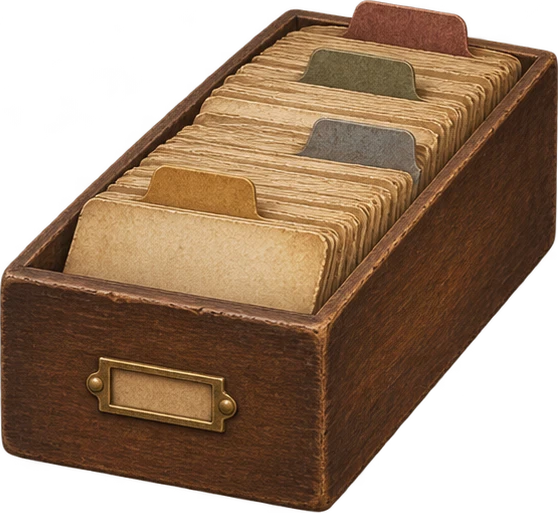
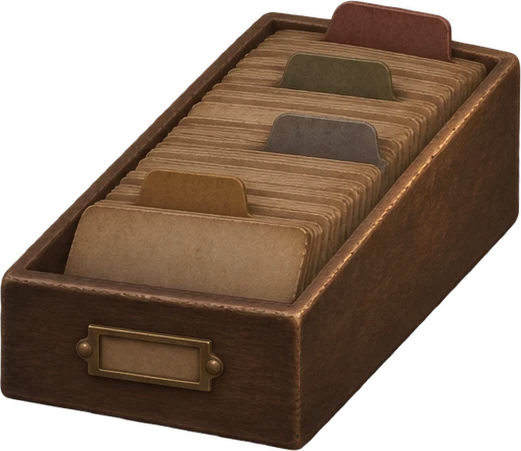
分岐表のカード箱の絵を差し替え（机 v1.9.1）
Claude-Session: https://claude.ai/code/session_01V6rLNkZVMeFGwMy4Z8QBFt

diff --git a/tools/nakoto-sample.html b/tools/nakoto-sample.html
@@ -5,7 +5,7 @@
 <meta name="viewport" content="width=device-width, initial-scale=1.0, maximum-scale=1.0, user-scalable=no, viewport-fit=cover">
 <meta name="mobile-web-app-capable" content="yes">
 <meta name="apple-mobile-web-app-capable" content="yes">
-<title>ナコト写本 見本 v1.11.0</title>
+<title>ナコト写本 見本 v1.11.1</title>
 <link rel="stylesheet" href="https://fonts.googleapis.com/css2?family=Cinzel:wght@700&family=Shippori+Mincho:wght@400;600;700&display=swap">
 <style>
   /* 机メニュー＋ナコト写本だけを試す見本。ゲーム本体には影響しない */
@@ -44,7 +44,7 @@
 </style>
 </head>
 <body>
-<div id="start"><b>タップして始める</b><span>全画面・横向きになります</span><span>ナコト写本 見本 v1.11.0</span></div>
+<div id="start"><b>タップして始める</b><span>全画面・横向きになります</span><span>ナコト写本 見本 v1.11.1</span></div>
 <div id="portrait">横向きにしてください</div>
 <div id="dbg"><button id="adv">物語を進める</button><button id="rst">最初から</button><button id="demo">見本で埋める</button><button id="adjBtn">調整</button></div>
 <button id="adjShow">調整に戻る</button>
@@ -66,10 +66,10 @@
     <div class="row"><button id="sndReset">効果音を元に戻す</button></div></div>
 </div>
 
-<script src="../assets/manifest.js?v=1.11.0"></script>
-<script src="../assets/picker/asset-picker.js?v=1.11.0"></script>
-<script src="../assets/sheet/investigator-sheet.js?v=1.11.0"></script>
-<script src="../assets/nakoto/nakoto-desk.js?v=1.11.0"></script>
+<script src="../assets/manifest.js?v=1.11.1"></script>
+<script src="../assets/picker/asset-picker.js?v=1.11.1"></script>
+<script src="../assets/sheet/investigator-sheet.js?v=1.11.1"></script>
+<script src="../assets/nakoto/nakoto-desk.js?v=1.11.1"></script>
 <script>
 (function(){
   'use strict';
@@ -120,7 +120,7 @@
   var desk=NakotoDesk.create({
     base:'../assets/nakoto/', assets:'../assets/', chart:chart, state:data.state, layout:data.layout, sounds:data.sounds,
     onLayout:function(l){ data.layout=l; save(data); },
-    onSounds:function(m){ data.sounds=m; save(data); }, version:'見本 v1.11.0',
+    onSounds:function(m){ data.sounds=m; save(data); }, version:'見本 v1.11.1',
     current: data.step>0?path[data.step-1][1]:null,
     onState:function(s){ data.state=s; save(data); },
     onLoad:function(slot,sv){ alertish('セーブ'+['壱','弐','参'][slot]+'から再開（見本なので表示だけ）'); },

diff --git a/assets/nakoto/nakoto-desk.js b/assets/nakoto/nakoto-desk.js
@@ -1,5 +1,5 @@
 /* ============================================================================
-   机メニュー＋ナコト写本 部品（NakotoDesk） v1.9.0
+   机メニュー＋ナコト写本 部品（NakotoDesk） v1.9.1
    ----------------------------------------------------------------------------
    机そのものがメニュー。本＝探索者シート（部品 assets/sheet/investigator-sheet.js）、紙の束＝ルート分岐表（付箋付きファイル）、羽ペン＝セーブ。
    本体は呼ぶだけ。見た目を作り直すときは、このファイルと assets/nakoto/ の絵だけを差しかえる。
@@ -36,7 +36,7 @@
    ============================================================================ */
 (function(){
   'use strict';
-  var VERSION='1.9.0';
+  var VERSION='1.9.1';
   // 効果音（assets からの場所）。空なら鳴らさない。見本の「調整」で差しかえられる
   var SOUNDS={glow:'',sheet:'sfx/紙を広げる1.mp3',
     peek:'sfx/ページをめくる2.mp3',grow:'sfx/うごめく触手.mp3',grow2:'sfx/暗黒魔法.mp3',close:'sfx/本を閉じる1.mp3',saveOpen:'sfx/紙を広げる2.mp3',write:'sfx/シャーペンで字を書く.mp3',
@@ -206,7 +206,7 @@
     var room=el('div','nd-room'); room.style.backgroundImage='url('+B+'room.webp)';
     var desk=el('img','nd-desk'); desk.src=B+'desk.webp';
     function obj(cls,img,label){ var d=el('div','nd-obj '+cls); if(img){ var i=el('img'); i.src=B+img; d.appendChild(i); } if(label) d.appendChild(el('div','nd-label',label)); return d; }
-    var sheets=obj('nd-sheets','cardbox.webp','ルート分岐表');
+    var sheets=obj('nd-sheets','cardbox.webp?v='+VERSION,'ルート分岐表');
     var lantern=obj('nd-lantern','lantern.webp',null); lantern.style.cursor='default';
     var flame=el('div','nd-flame'); lantern.appendChild(flame);
     var ink=obj('nd-ink','ink.webp',null); ink.style.pointerEvents='none';
